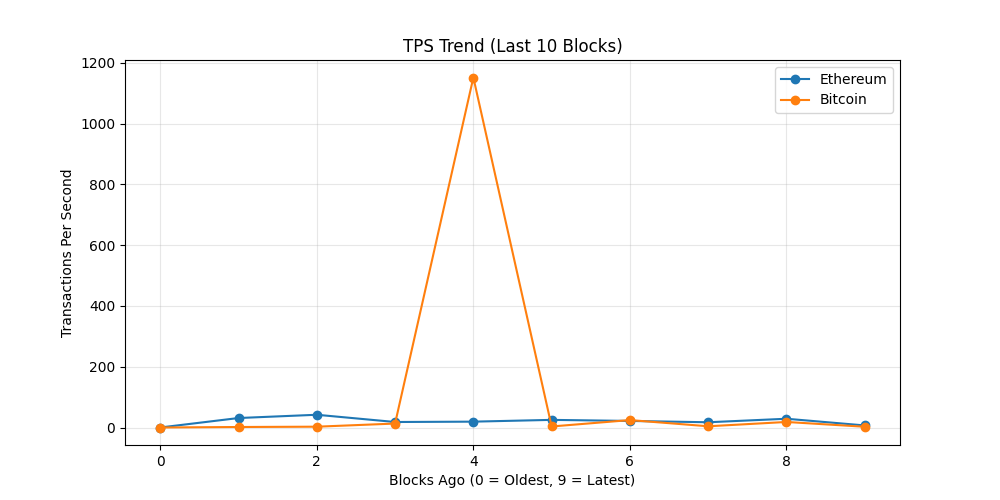
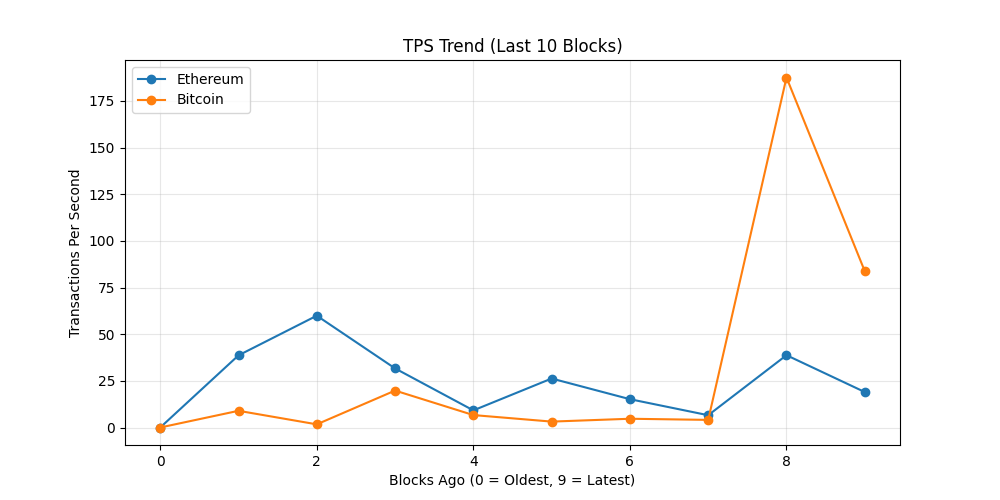
chore: update on-chain dashboard

diff --git a/README.md b/README.md
@@ -19,7 +19,7 @@ The README itself acts as the dashboard and is regenerated automatically on a 6 
 demonstrating a production-style, infrastructure-focused observability workflow rather
 than a traditional UI-driven approach.
 
-_Last updated: 2026-11-08 13:20 UTC_
+_Last updated: 2026-11-08 22:00 UTC_
 
 ## API Usage (GetBlock.io)
 - Calls used: **24**
@@ -27,8 +27,8 @@ _Last updated: 2026-11-08 13:20 UTC_
 ## Network Metrics
 | Chain | Block Height | TX Count | TPS (10 blk avg) | Block Util | Avg Fee |
 |------|-------------|----------|------------------|------------|---------|
-| Ethereum | 26370412 | 81 | 6.75 | 14.65% | 0.1 Gwei |
-| Bitcoin | 975065 | 2374 | 2.46 | 99.89% | N/A |
+| Ethereum | 26373008 | 228 | 19.0 | 46.66% | 1.1 Gwei |
+| Bitcoin | 975104 | 7624 | 83.78 | 99.79% | N/A |
 
 ## Visuals
 ### Transactions Trend
@@ -43,11 +43,8 @@ _Last updated: 2026-11-08 13:20 UTC_
 ## Whale Alerts (latest block)
 - Transaction hashes are truncated for readability.
 - Full hashes are available in `dashboards/metrics.json`
-- Bitcoin | 332.54 BTC | `87a8fe34d788…`
-- Bitcoin | 150.0 BTC | `ad8f43e67d77…`
-- Bitcoin | 112.29 BTC | `eae8ae4bebab…`
-- Bitcoin | 207.62 BTC | `293d8734778d…`
-- Bitcoin | 163.21 BTC | `675e25591122…`
+- Bitcoin | 113.47 BTC | `f67191b72ad2…`
+- Bitcoin | 301.64 BTC | `6b3fe21cc2b4…`
 
 ## Run locally
 
